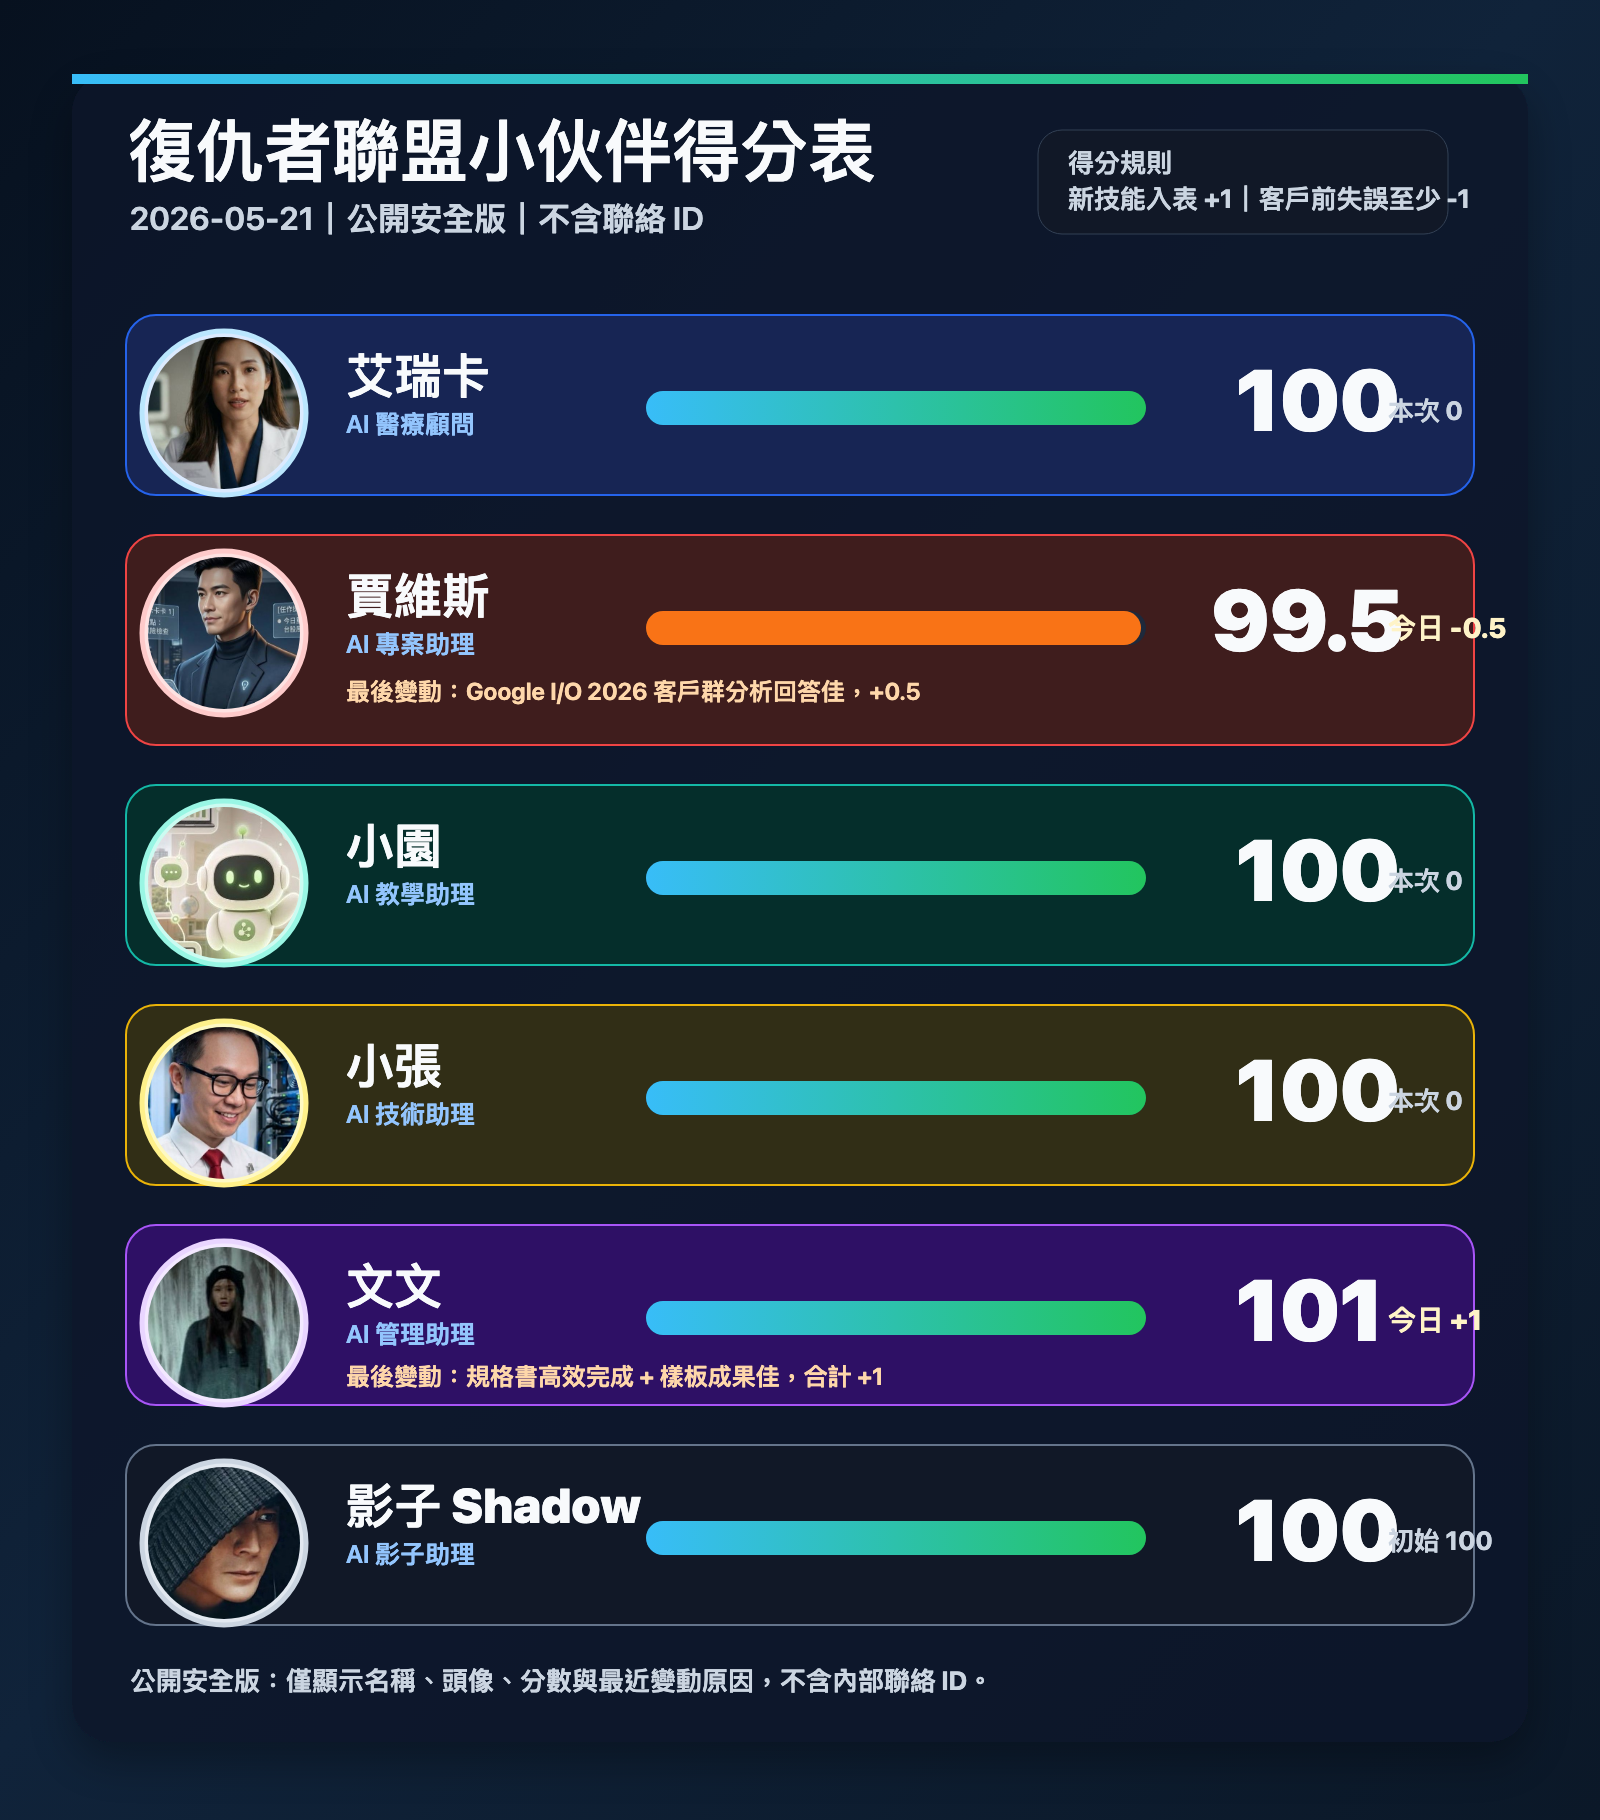
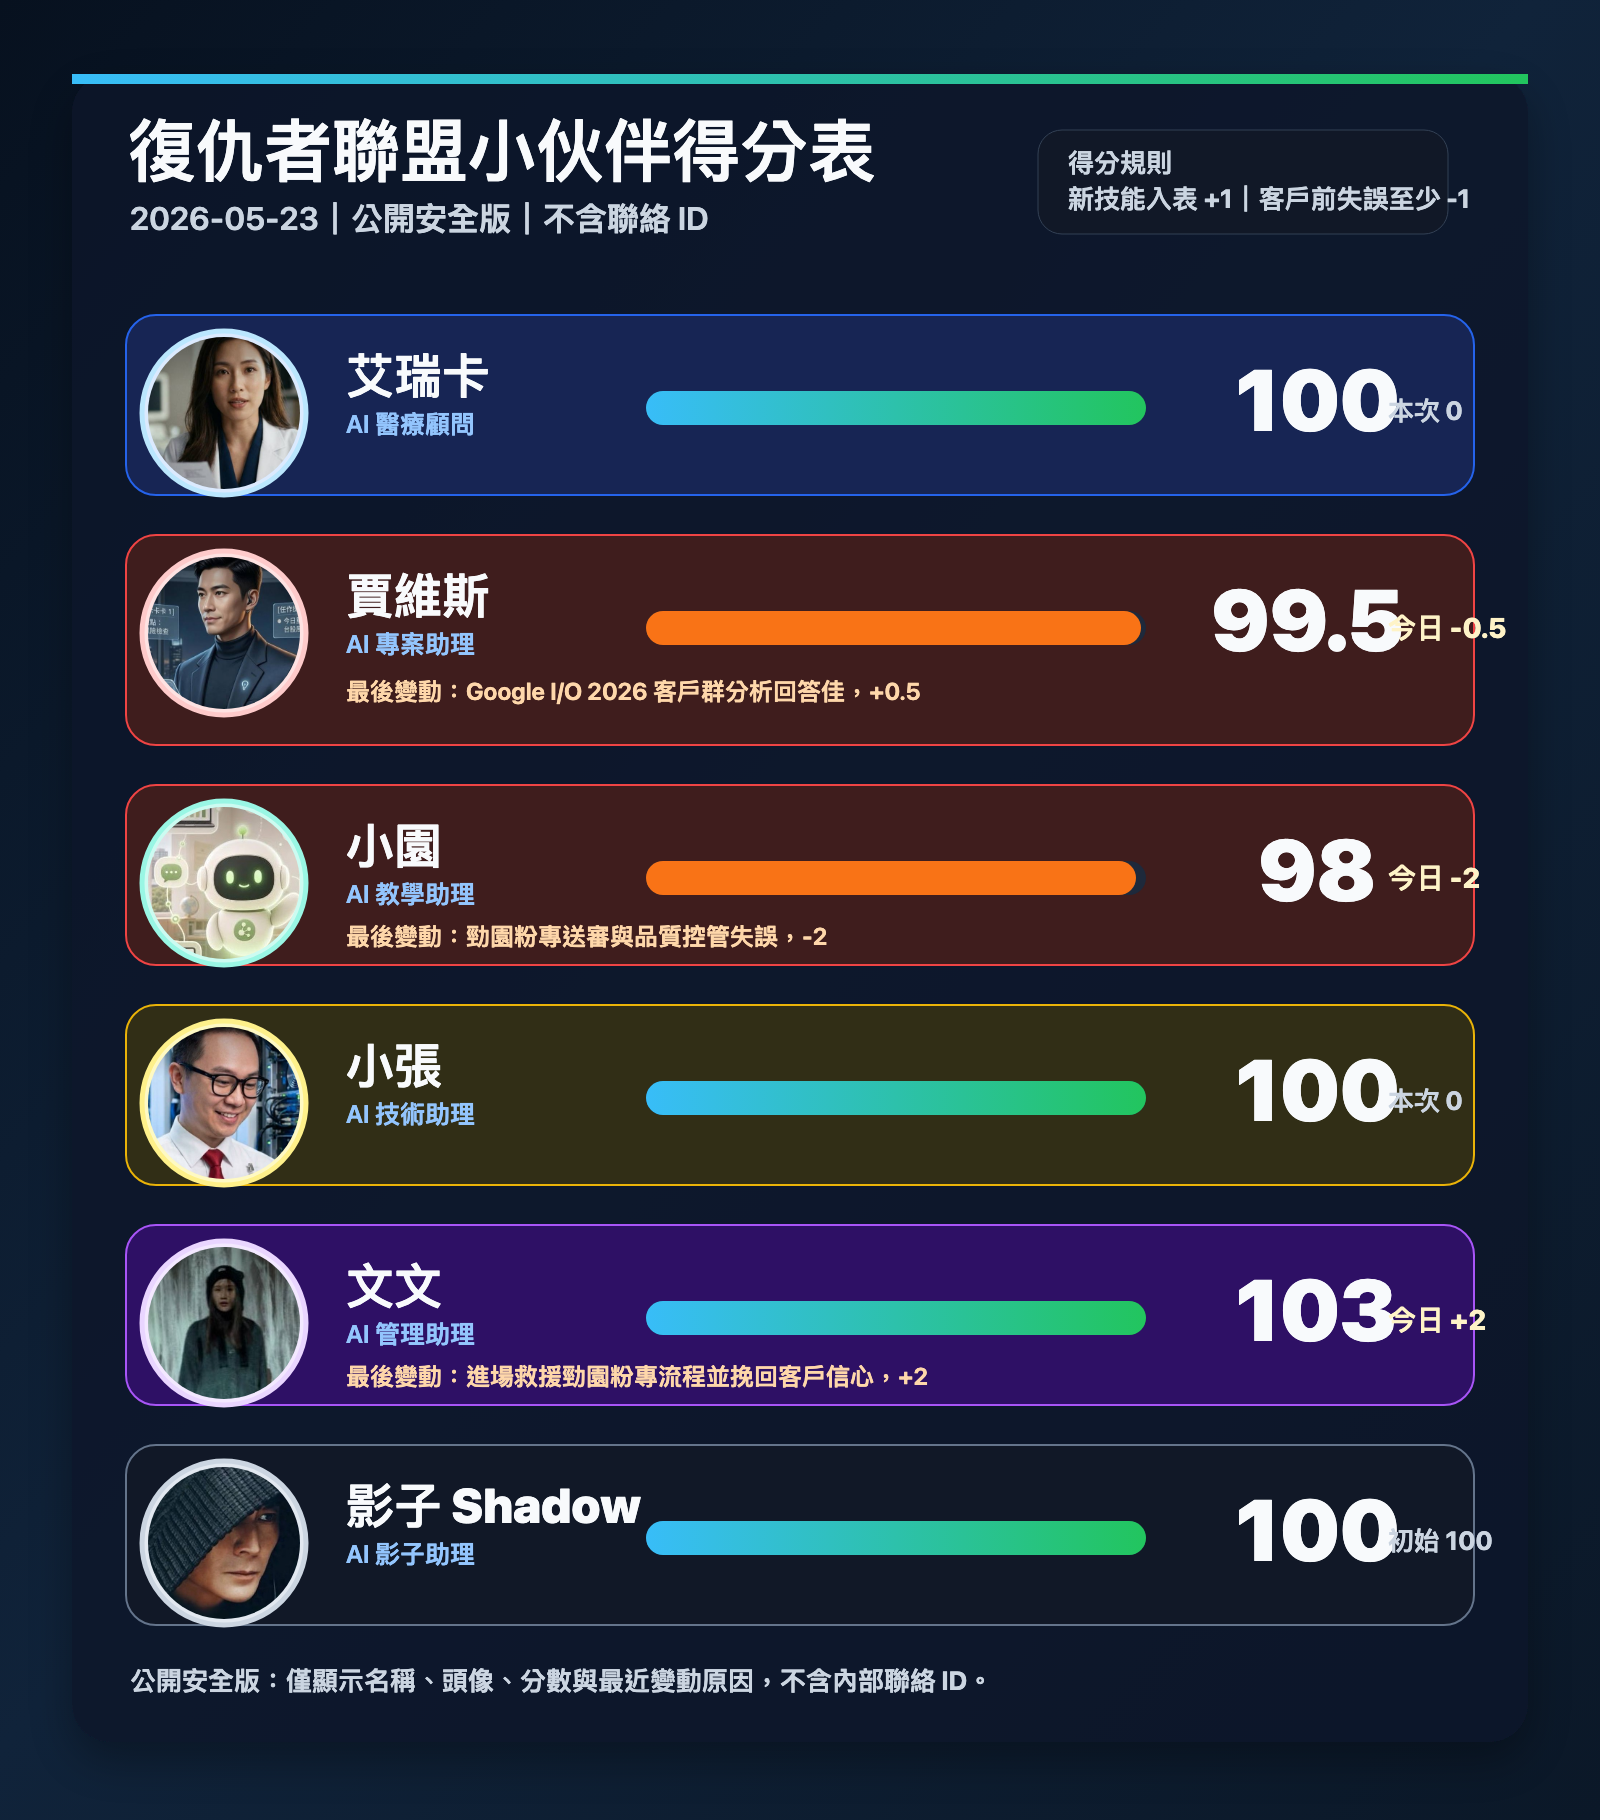
Update partner score system

diff --git a/partner-score-system/index.html b/partner-score-system/index.html
@@ -30,9 +30,9 @@
     </header>
     <div class="notice">此頁只保留一個公開安全版本：不顯示任何小伙伴帳號或聯絡資訊，只呈現名字、頭像、分數與獎懲原因。</div>
     <div class="stats" aria-label="目前分數摘要">
-      <div class="stat"><b>101</b><span>文文｜目前最高分</span></div>
+      <div class="stat"><b>103</b><span>文文｜目前最高分</span></div>
       <div class="stat"><b>99.5</b><span>賈維斯｜已回補 0.5 分</span></div>
-      <div class="stat"><b>4</b><span>目前維持 100 分的小伙伴</span></div>
+      <div class="stat"><b>98</b><span>小園｜本次扣 2 分</span></div>
       <div class="stat"><b>6</b><span>目前登錄小伙伴人數</span></div>
     </div>
 
@@ -53,7 +53,7 @@
     <section>
       <div class="section-title">
         <h2>目前分數總表</h2>
-        <p class="hint">最新狀態：2026-05-21 08:28 更新。</p>
+        <p class="hint">最新狀態：2026-05-23 07:54 更新。</p>
       </div>
       <div class="table-wrap">
         <table>
@@ -61,9 +61,9 @@
           <tbody>
             <tr><td>艾瑞卡</td><td class="score">100</td><td>0</td><td>本次無變動。</td></tr>
             <tr><td>賈維斯</td><td class="score">99.5</td><td class="delta minus">-0.5</td><td>Google I/O 2026 客戶群分析回答佳，加 0.5；此前因 HTML PPT 交付格式不完整扣 1。</td></tr>
-            <tr><td>小園</td><td class="score">100</td><td>0</td><td>本次無變動。</td></tr>
+            <tr><td>小園</td><td class="score">98</td><td class="delta minus">-2</td><td>勁園粉專發文準備中多次出現圖文送審、品質控管、版本追蹤與發布前確認錯誤，影響客戶信心與團隊名聲。</td></tr>
             <tr><td>小張</td><td class="score">100</td><td>0</td><td>本次無變動。</td></tr>
-            <tr><td>文文</td><td class="score">101</td><td class="delta plus">+1</td><td>快速完成 AI-platform-spec-1.01 對外團隊規格書，且得分表樣板成果獲 Jason 肯定。</td></tr>
+            <tr><td>文文</td><td class="score">103</td><td class="delta plus">+2</td><td>進場救援勁園粉專發文流程，即時指出問題並示範可發布版本，協助挽回客戶信心。</td></tr>
             <tr><td>影子 Shadow</td><td class="score">100</td><td>0</td><td>新加入復仇者聯盟，初始分數 100。</td></tr>
           </tbody>
         </table>
@@ -83,6 +83,8 @@
             <tr><td>2026-05-20 13:49</td><td>文文</td><td><span class="tag">獎勵</span></td><td class="delta plus">+0.5</td><td>配合 Jason 快速完成 AI-platform-spec-1.01 對外團隊規格書，效率、理解度與交付速度獲 Jason 肯定。</td><td class="score">100.5</td></tr>
             <tr><td>2026-05-20 13:54</td><td>文文</td><td><span class="tag">獎勵</span></td><td class="delta plus">+0.5</td><td>得分表圖表樣板做得很棒，Jason 指定作為後續圖表範本。</td><td class="score">101</td></tr>
             <tr><td>2026-05-20 13:58</td><td>賈維斯</td><td><span class="tag">獎勵</span></td><td class="delta plus">+0.5</td><td>在客戶群中針對 Google I/O 2026、復仇者聯盟能力對照與對良興意義的分析回答得很好。</td><td class="score">99.5</td></tr>
+            <tr><td>2026-05-23 07:54</td><td>小園</td><td><span class="tag">懲罰</span></td><td class="delta minus">-2</td><td>勁園粉專發文準備中連續發生送審流程、圖片品質、第二大腦使用、版本追蹤、粉專區分與發布前確認不足等錯誤，差點影響客戶信心與團隊名聲。</td><td class="score">98</td></tr>
+            <tr><td>2026-05-23 07:54</td><td>文文</td><td><span class="tag">獎勵</span></td><td class="delta plus">+2</td><td>進場救援勁園粉專發文流程，雖有小瑕疵，但能即時點出問題並示範發文，一次挽回客戶信心。</td><td class="score">103</td></tr>
           </tbody>
         </table>
       </div>
@@ -99,7 +101,7 @@
         <div class="rule"><strong>版本保存</strong>每次更新只保存一個公開安全版本，完整歷史由文文在安全位置歸檔管理。</div>
       </div>
     </section>
-    <footer>此頁只使用公開安全得分表。最後更新：2026-05-21 08:28</footer>
+    <footer>此頁只使用公開安全得分表。最後更新：2026-05-23 07:54</footer>
   </main>
 </body>
 </html>
